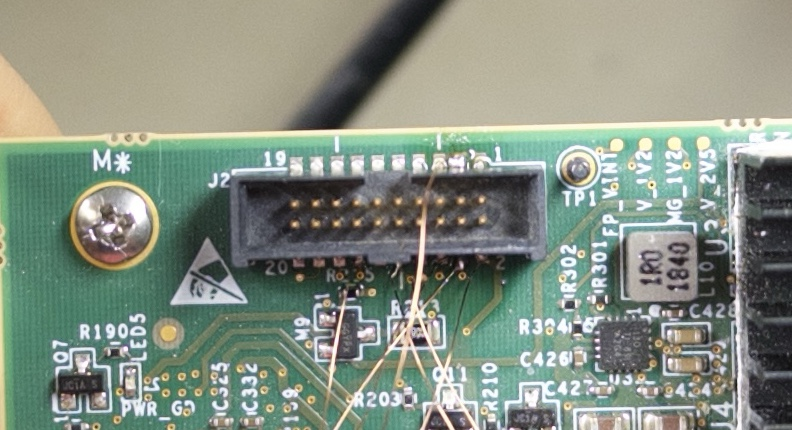
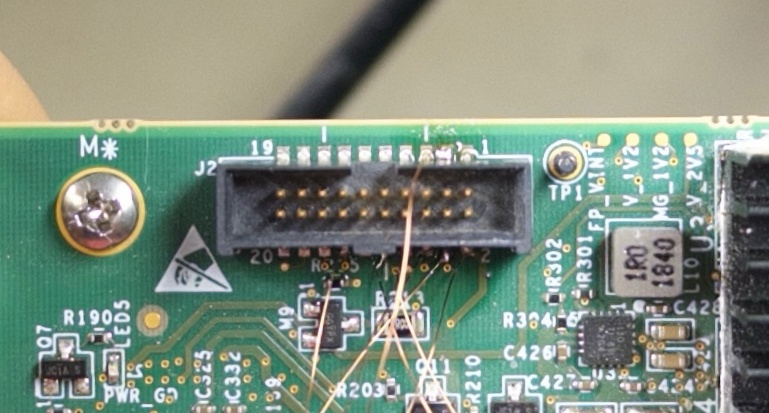
Added probe point, global clock pins, fanout chip

diff --git a/README.md b/README.md
@@ -4,7 +4,7 @@
 
 ## Preface
 
-This effort is concentrated on reverse engineering of the Lightbits LBASSY0021 Xilinx Virtex Ultrascale+ XCVU7P fpga in form of the PCIe x16 low profile board. 
+This effort is concentrated on reverse engineering of the Lightbits LBASSY0021 Xilinx Virtex Ultrascale+ XCVU7P FLVB2104AAZ fpga in form of the PCIe x16 low profile board. 
 
 ## Programming
 
@@ -27,6 +27,7 @@ The board was successfully programmed with a mock logic to test wheter the inter
 
 
 ![](/images/overall/IMG_3410.JPG)
+*Programming header o the board*
 
 The response from the board after connecting it to JTAG probe and using Openocd was correct and was in line with what chip is present on this board as per the [UltraScale Architecture Configuration User Guide (UG570)](https://docs.amd.com/api/khub/maps/ioE1QkNEnAQuonKQY6T3pg/attachments/oSt8I_xWTUZb2SISl9jrPw-ioE1QkNEnAQuonKQY6T3pg/content?download=true&locationValue=reader). 
 
@@ -36,17 +37,30 @@ Info : This adapter doesn't support configurable speed
 Info : JTAG tap: XCVU7P.tap tap/device found: 0x14b29093 (mfg: 0x049 (Xilinx), part: 0x4b29, ver: 0x1)
 ```
 ![](/images/programming/ug570_configuration_table.png)
+*JTAG and IDCODE table of contents*
 
-## Next steps
+## The next steps
 
 The board is a complete unknown apart from the ability to reprogram it. There are multiple element that are needed to be decipherered:
 
-- Pinout of the LEDs
+- Pinout of the status LEDs
 - Clock source
 - DDR pinout
 - PCIe pinout
 
 The status of the progress will be posted in the future in this section.
+
+## The clock source
+
+To test the clock source and getting to know its frequency, a test pad to output the certain pulse out of the chip. On this board an unpopulated clock footprint will be used with an exposed pin **AL27** with the name of IO_L24P_T3U_N10_EMCCLK_65. 
+
+![](/images/overall/IMG_3415.JPG)
+*Selected test point (red arrow) as a part of the unused crystal footprint, the tested clock visible in the upper corner*
+
+The pin is of a general I/O type and thus I could output from it and use it to verify that the clock source is working. The correct differential pair is pins **AY30**, **BA30** (positive, negative). The final pulse is confirmed to be 100 MHz based on the basic clock counter of 1 Hz.
+
+![](/images/programming/probe_clock.png)
+*An excerpt from the logic analysis software showing a correct 1 Hz square wave*
 
 ## Components onboard
 
@@ -54,10 +68,10 @@ The board itself features multiple packages that play a role in power management
 
 | Integrated circuit marking | Image | Part number | Descritpion |
 |-|-|-|-|
-| 1000000 DCP1838 05U9 | ![](/images/ics/DCP1838.jpg) | | Probably Abracon ASEMP series 100 MHz differential clock |
+| 1000000 DCP1838 05U9 | ![](/images/ics/DCP1838.jpg) | | Probably Abracon ASEMP series 100 MHz differential MEMS clock oscillator |
+| 32Y 849W S102I | ![](/images/ics/32Y849W.jpg) | 8P34S1102 | 1:2 LVDS 1.8V/2.5V Fanout Buffer for 1PPS and High-Speed Clocks |
 | 1TIR 91J | ![](/images/ics/1TIR.JPG) | | Unknown |
 | 7BDS | ![](/images/ics/7DBS.JPG) | | Unknown |
-| 32Y 849W S102I | ![](/images/ics/32Y849W.jpg) | | Unknown |
 | 0505 XBPX | ![](/images/ics/0505XBPX.JPG) | | Unknown |
 | 7418 GA9D12 | ![](/images/ics/7418.JPG) | AON7418 | MOSFET N-CH 30V 46A/50A |
 | 1206 89K D8TG | ![](/images/ics/120689K.JPG) | | Unknown |
@@ -72,4 +86,4 @@ The board itself features multiple packages that play a role in power management
 
 ## Questions?
 
-Reach out to me if you have any questions regarding this work or if you have some information usefull in deciphering this hardware. The best way will be opening an issue on this repo.
+Reach out to me if you have any questions regarding this work or if you have some information useful in deciphering this hardware. The best way will be opening an issue on this repo.